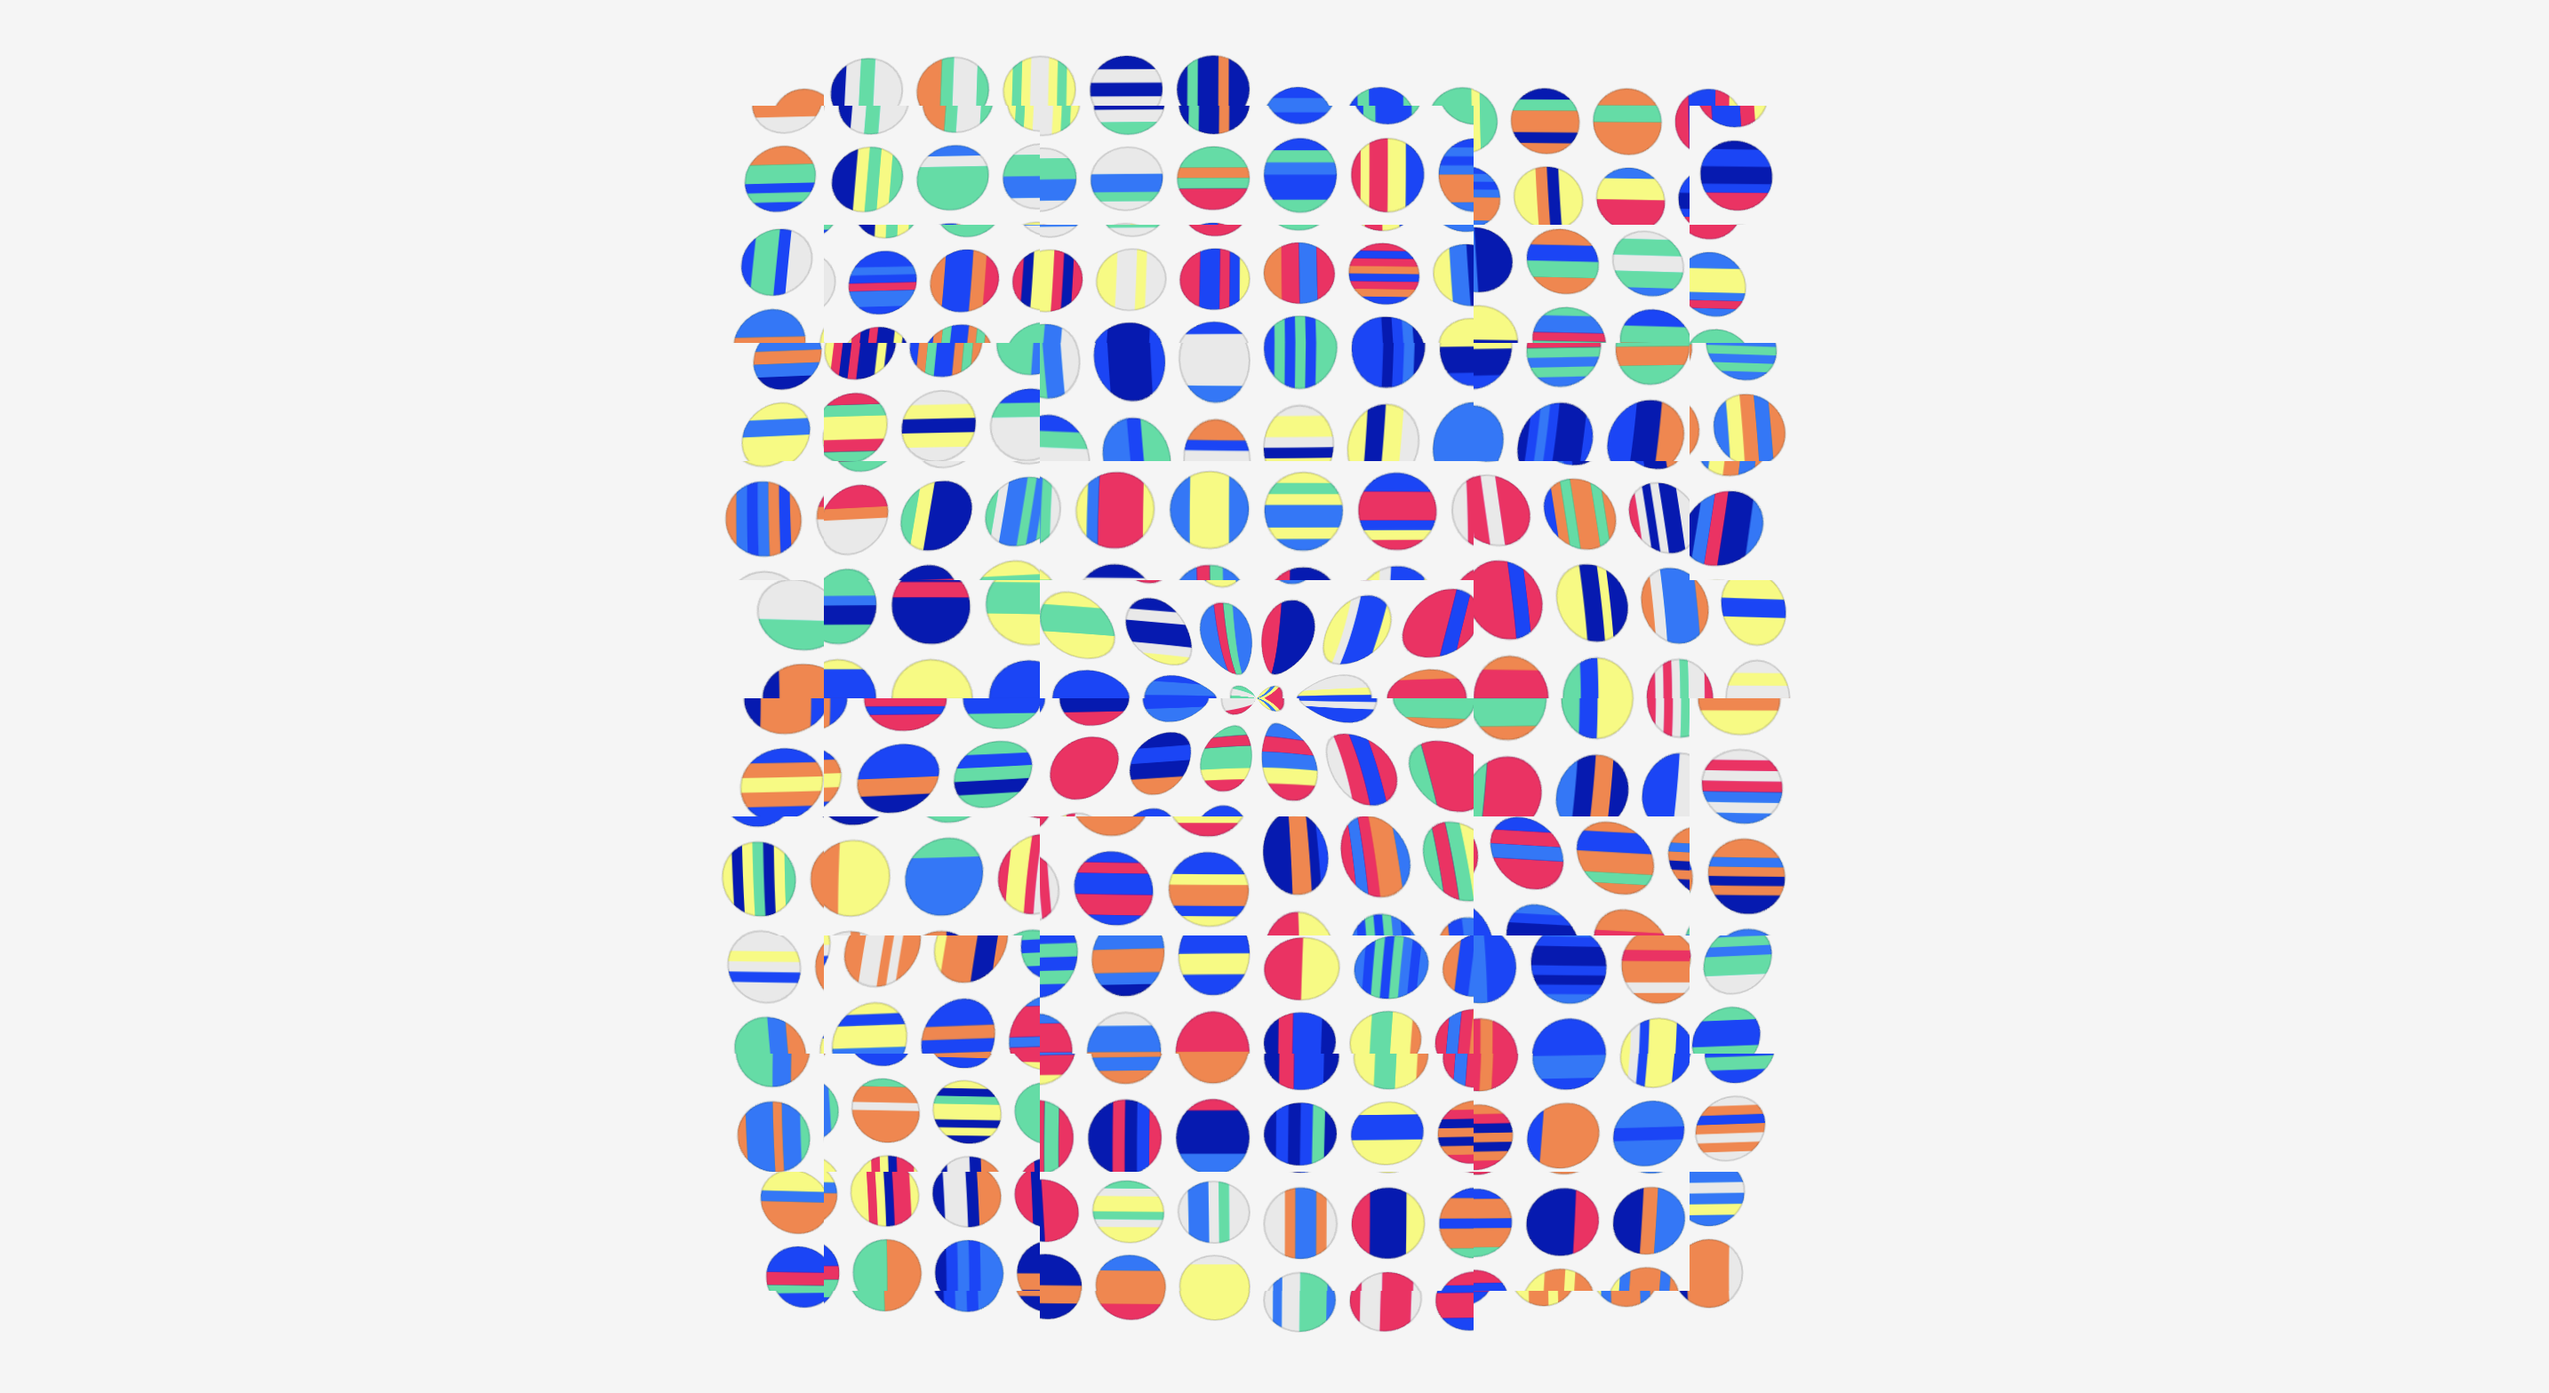
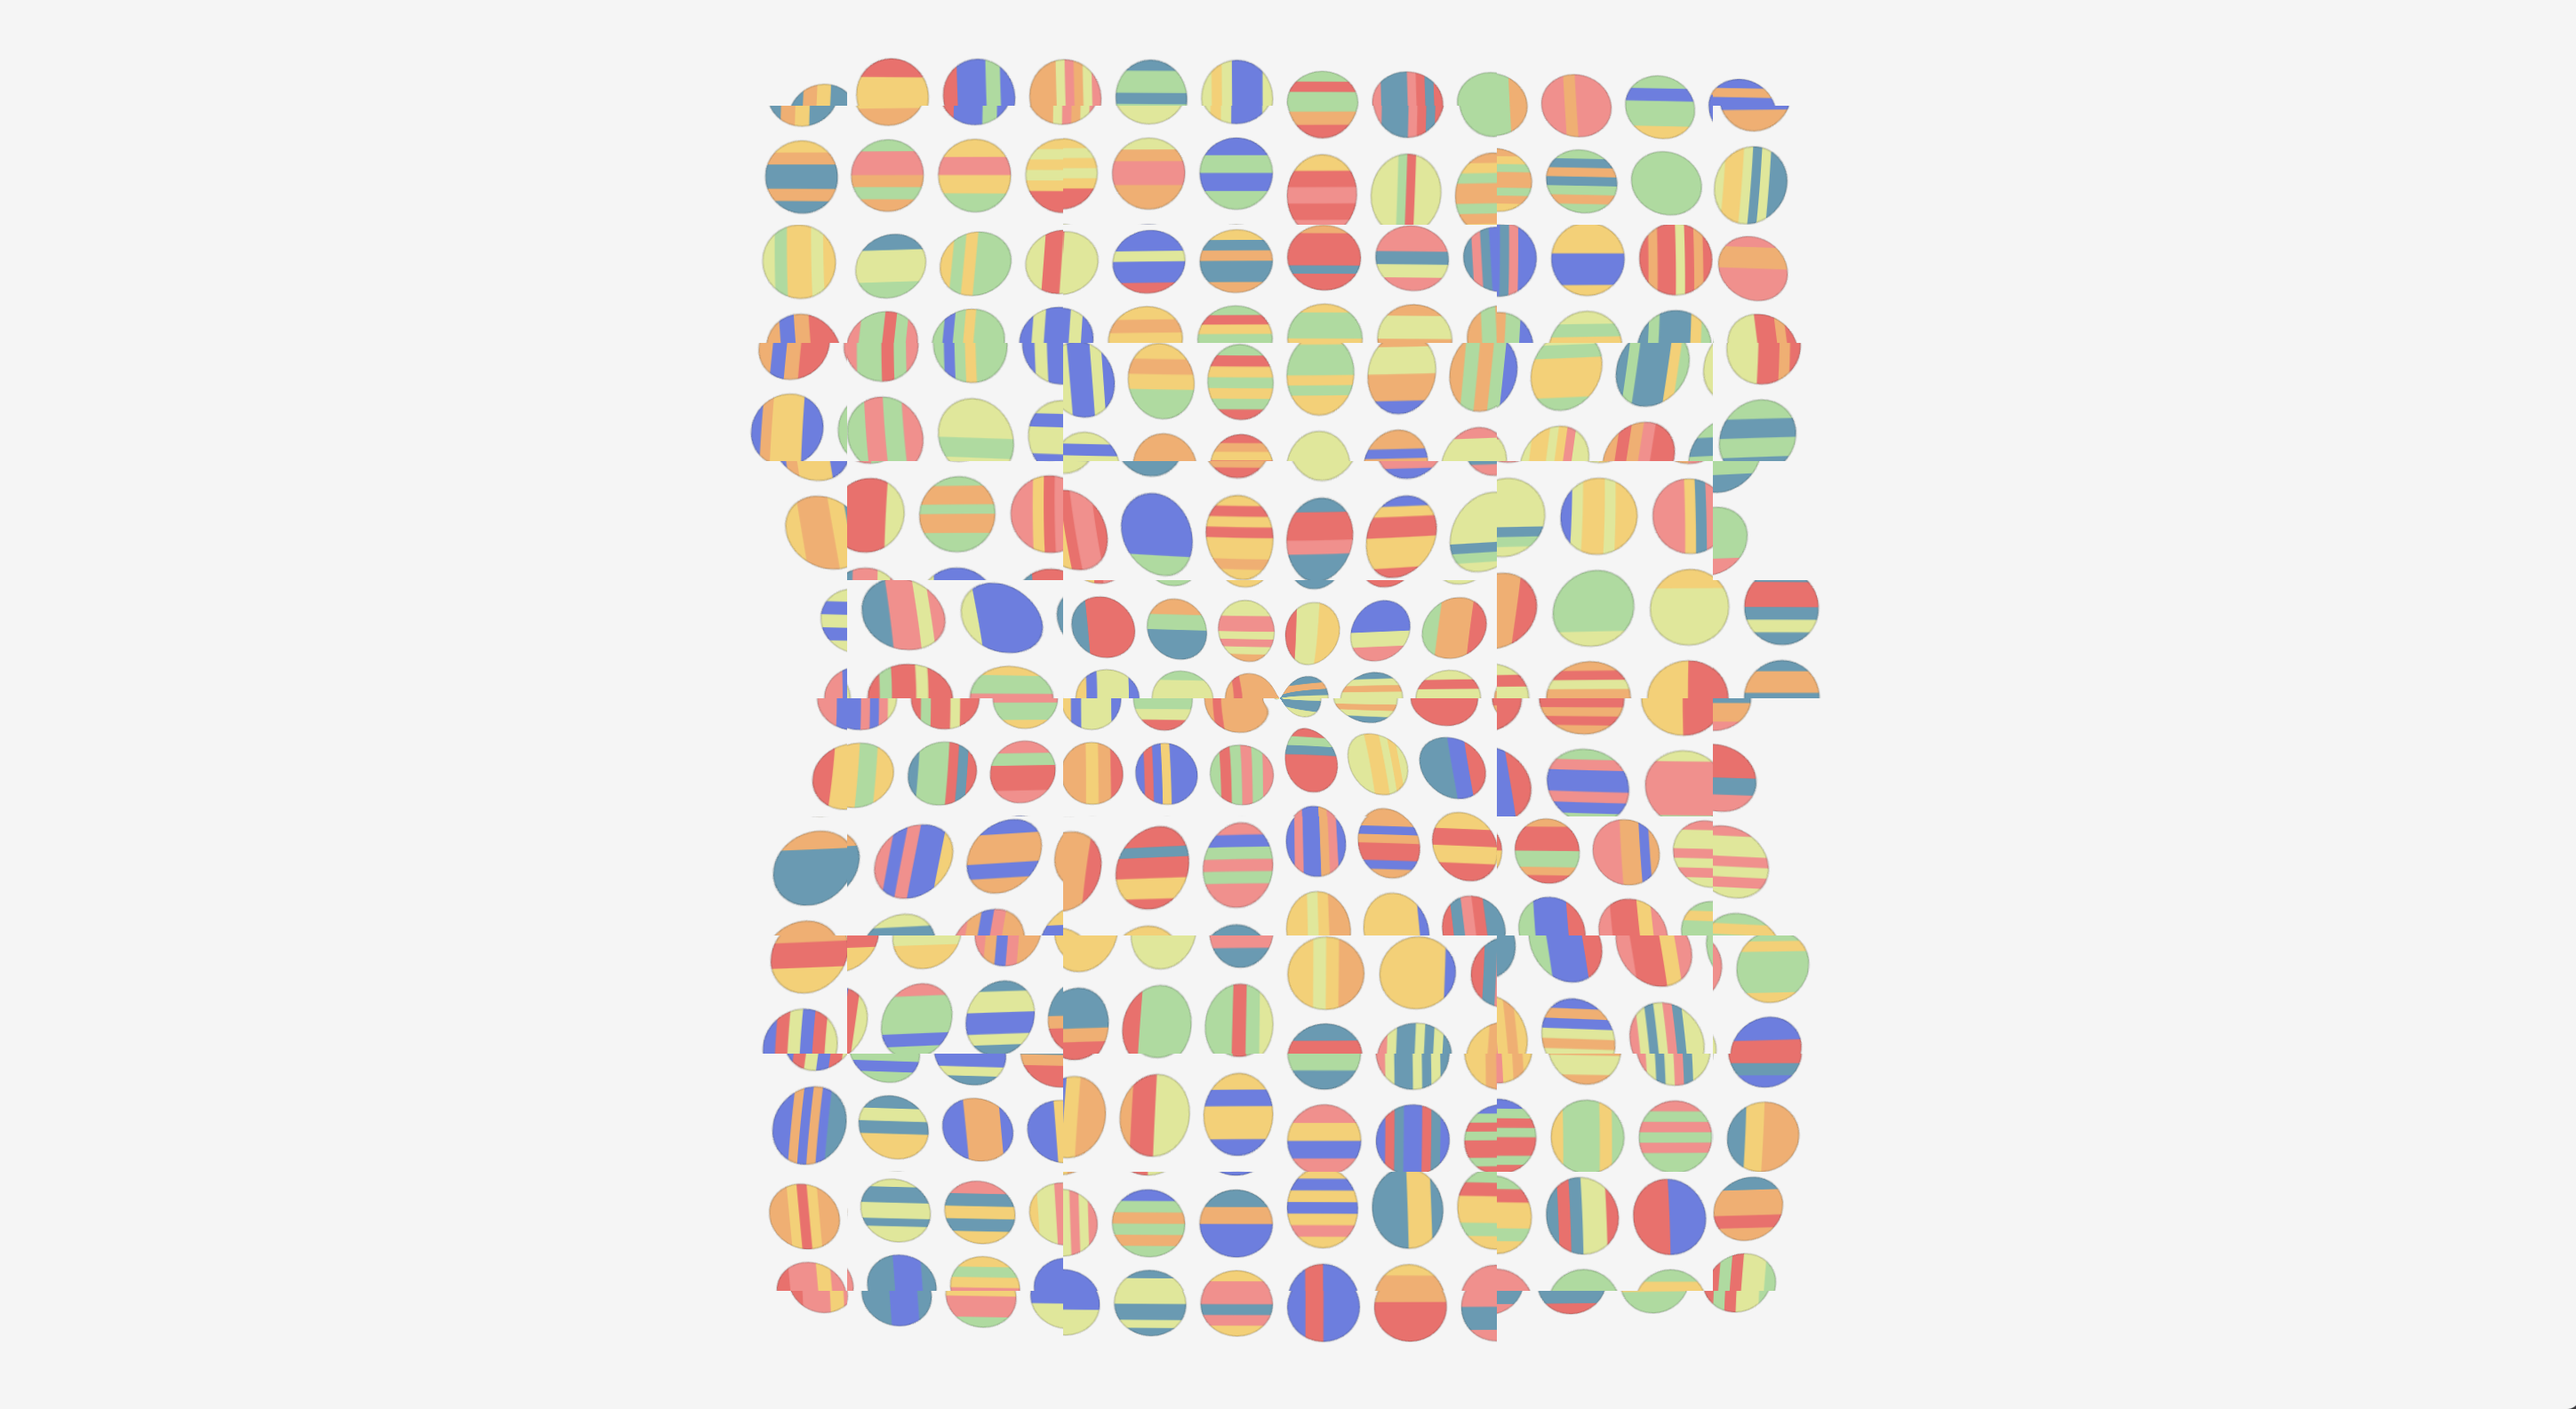
modofied a sketch

Changed region(s): [[0.2793, 0.0312, 0.7137, 0.9688]]

diff --git a/content/works/happy-grid/script.js b/content/works/happy-grid/script.js
@@ -42,14 +42,14 @@ void main() {
 `
 
 const palette = [
-  "#001BB7",
-  "#0046FF",
-  "#FF8040",
-  "#E9E9E9",
-  "#FF0060",
-  "#F6FA70",
-  "#00DFA2",
-  "#0079FF"
+  "#5A9CB5",
+  "#FACE68",
+  "#FAAC68",
+  "#FA6868",
+  "#FF8A8A",
+  "#A3DC9A",
+  "#DEE791",
+  "#687FE5"
 ];
 
 let pg;
